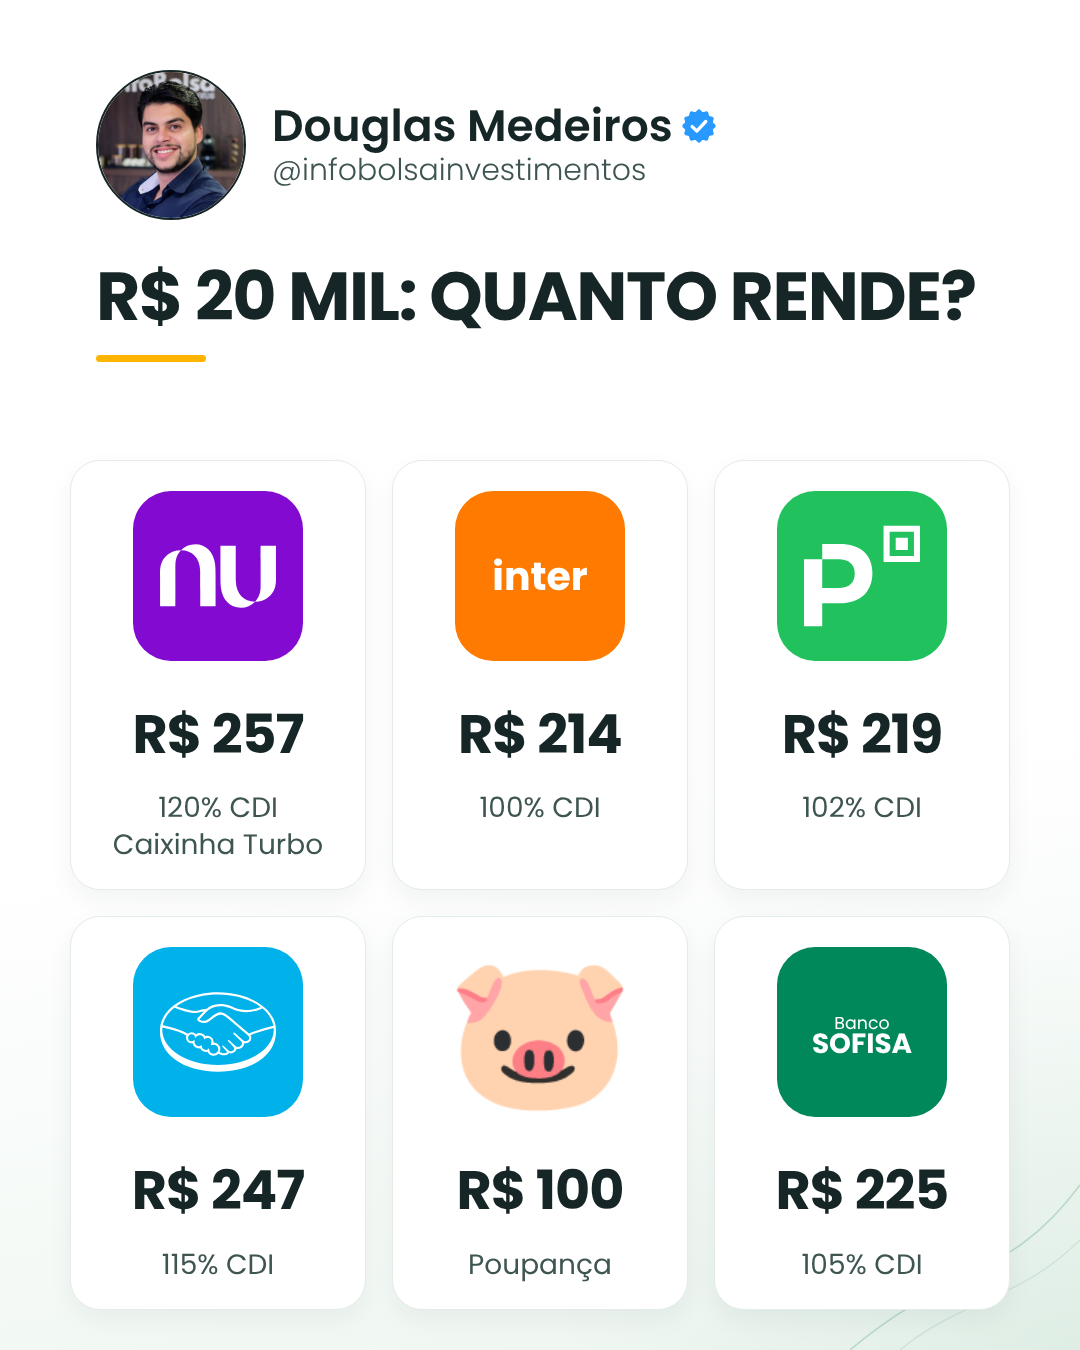
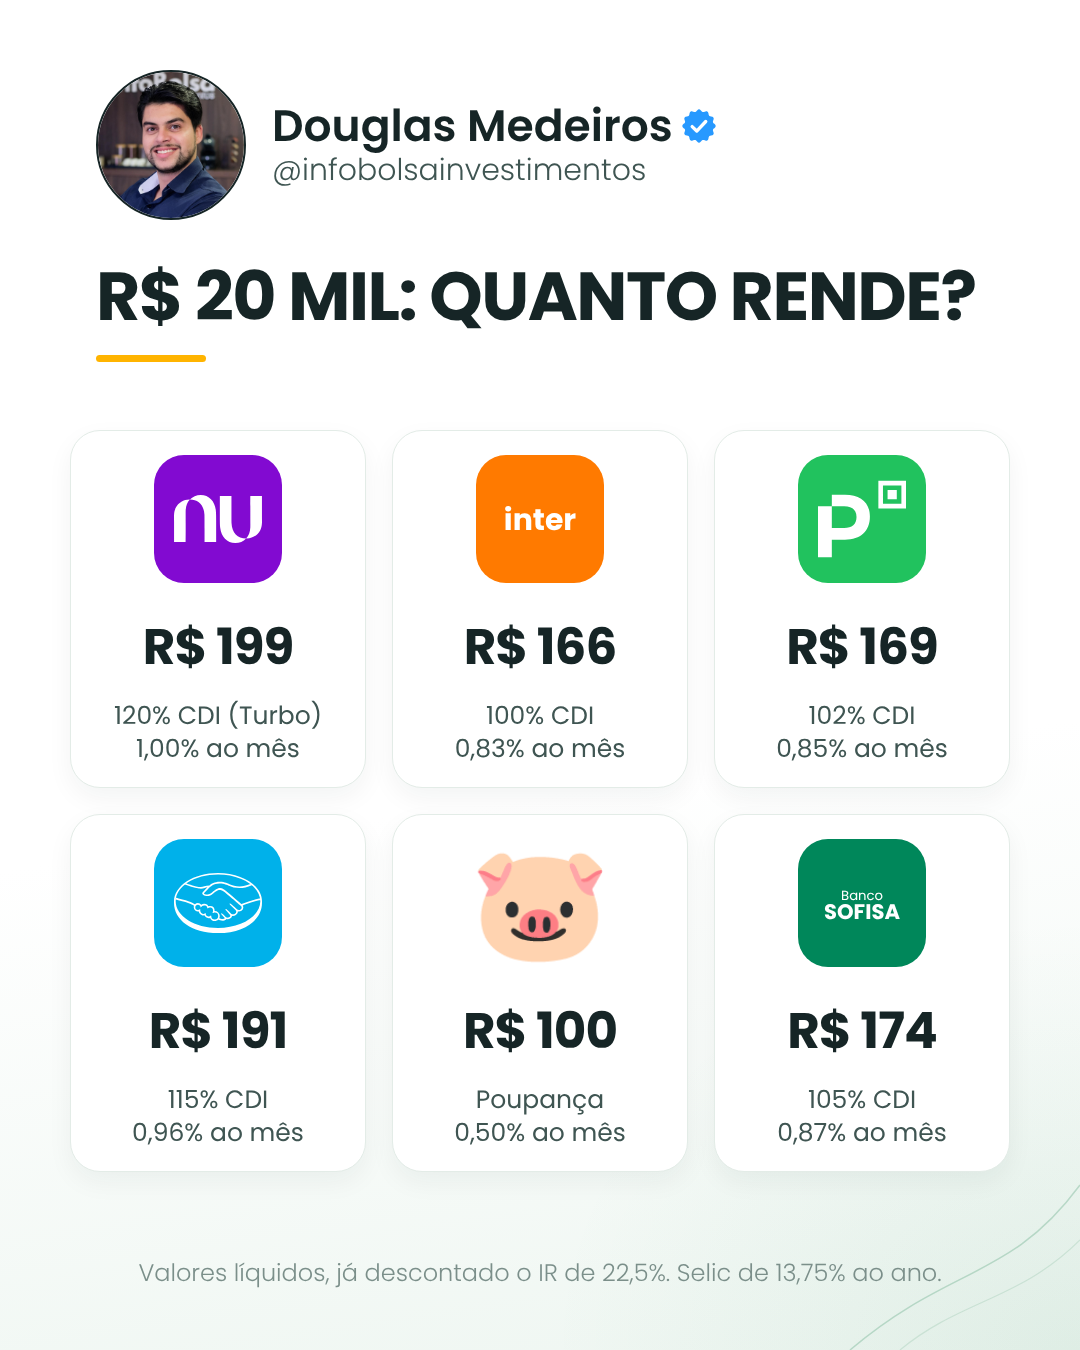
R$ 20 mil: valores líquidos de IR e taxa ao mês
Claude-Session: https://claude.ai/code/session_01V4Ut9U2W4uPbxLAyJQKmJH

diff --git a/kit/gen_tw.py b/kit/gen_tw.py
@@ -12,12 +12,12 @@ body{background:linear-gradient(172deg,#ffffff 0%,#ffffff 58%,#eef6f1 100%)!impo
 .cab{top:70px}
 .tw-t{position:absolute;left:96px;right:96px;top:260px;font-weight:700;font-size:var(--ts,76px);line-height:1.08;letter-spacing:-1.5px;color:#162526}
 .gr{position:absolute;left:70px;right:70px;display:grid;row-gap:26px;column-gap:26px}
-.it{display:flex;flex-direction:column;align-items:center;text-align:center;background:#fff;border:1.5px solid #e3ece7;border-radius:30px;padding:30px 10px 26px;box-shadow:0 10px 26px rgba(22,37,38,.05)}
-.lq{width:170px;height:170px;border-radius:38px;display:flex;align-items:center;justify-content:center;overflow:hidden;margin-bottom:22px}
+.it{display:flex;flex-direction:column;align-items:center;text-align:center;background:#fff;border:1.5px solid #e3ece7;border-radius:30px;padding:24px 10px 22px;box-shadow:0 10px 26px rgba(22,37,38,.05)}
+.lq{width:128px;height:128px;border-radius:30px;display:flex;align-items:center;justify-content:center;overflow:hidden;margin-bottom:14px}
 .lq img{width:68%;height:68%;object-fit:contain}
-.lq.em{font-size:150px;line-height:1}
-.it .v{font-weight:700;font-size:54px;letter-spacing:-1px;color:#162526;line-height:1.1}
-.it .d{font-size:28px;color:#3f5552;line-height:1.3;margin-top:4px}
+.lq.em{font-size:112px;line-height:1}
+.it .v{font-weight:700;font-size:50px;letter-spacing:-1px;color:#162526;line-height:1.1}
+.it .d{font-size:25px;color:#3f5552;line-height:1.3;margin-top:4px}
 """
 
 def grade(c):
@@ -32,6 +32,7 @@ def grade(c):
 <div><div class="nm">Douglas Medeiros {SELO}</div><div class="ar">@infobolsainvestimentos</div></div></div>
 <div class="tw-t">{c["titulo"]}</div>
 <div class="gr" style="top:{c.get("top", 420)}px;grid-template-columns:repeat({c.get("cols", 3)},1fr)">{it}</div>
+<div style="position:absolute;left:96px;right:96px;bottom:60px;text-align:center;font-size:24px;color:#7b8f8a">{c.get("nota", "")}</div>
 {SCRIPT}</body></html>"""
 
 CSS_VS = """
